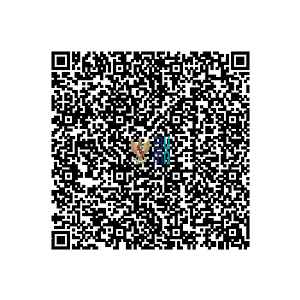
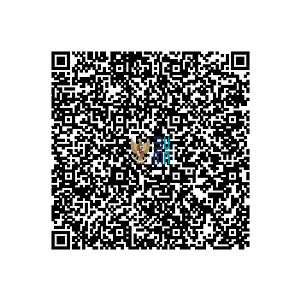
update qr code

Changed region(s): [[0.15, 0.15, 0.84, 0.84]]

diff --git a/app/Http/Controllers/RencanaKerja/TbleController.php b/app/Http/Controllers/RencanaKerja/TbleController.php
@@ -20,6 +20,8 @@ use SimpleSoftwareIO\QrCode\Facades\QrCode;
 use Intervention\Image\Facades\Image;
 use Illuminate\Support\Facades\Storage;
 use Illuminate\Support\Facades\Crypt;
+use Milon\Barcode\DNS1D;
+use Milon\Barcode\DNS2D;
 
 class TbleController extends Controller
 {
@@ -377,50 +379,120 @@ class TbleController extends Controller
         $encryptedId = Crypt::encryptString($id);
         $encryptedTanggalCetak = Crypt::encryptString($tanggal_cetak);
         $redirectRoute = route('verifikasi.index', ['id' => $encryptedId, 'tahun' => $tahun, 'tanggal_cetak' => $encryptedTanggalCetak]);
-        $qrCode = QrCode::format('png')
-        ->size(300)
-        ->margin(20)
-        ->generate($redirectRoute);
+        
+        // $qrCode = QrCode::format('png')
+        // ->size(300)
+        // ->margin(20)
+        // ->generate($redirectRoute);
 
-        Storage::disk('local')->put('qr_code.png', $qrCode);
+        // Storage::disk('local')->put('qr_code.png', $qrCode);
 
-        // Load your custom image
-        $customImage = Image::make('logo_only.png');
+        // // Load your custom image
+        // $customImage = Image::make('logo_only.png');
 
-        // Calculate the new size for the custom image (e.g., 100x100 pixels)
-        $newCustomWidth = 50;
-        $newCustomHeight = 50;
+        // // Calculate the new size for the custom image (e.g., 100x100 pixels)
+        // $newCustomWidth = 50;
+        // $newCustomHeight = 50;
 
-        // Resize the custom image
-        $customImage->resize($newCustomWidth, $newCustomHeight);
+        // // Resize the custom image
+        // $customImage->resize($newCustomWidth, $newCustomHeight);
 
-        // Calculate the position to overlay the custom image in the center of the QR code
-        $qrCodeImage = Image::make(Storage::disk('local')->path('qr_code.png'));
-        $qrCodeWidth = $qrCodeImage->getWidth();
-        $qrCodeHeight = $qrCodeImage->getHeight();
-        $customWidth = $customImage->width();
-        $customHeight = $customImage->height();
-        $overlayX = ($qrCodeWidth - $customWidth) / 2;
-        $overlayY = ($qrCodeHeight - $customHeight) / 2;
+        // // Calculate the position to overlay the custom image in the center of the QR code
+        // $qrCodeImage = Image::make(Storage::disk('local')->path('qr_code.png'));
+        // $qrCodeWidth = $qrCodeImage->getWidth();
+        // $qrCodeHeight = $qrCodeImage->getHeight();
+        // $customWidth = $customImage->width();
+        // $customHeight = $customImage->height();
+        // $overlayX = ($qrCodeWidth - $customWidth) / 2;
+        // $overlayY = ($qrCodeHeight - $customHeight) / 2;
 
-        // Overlay the custom image onto the QR code
-        $qrCodeImage->insert($customImage, 'top-left', $overlayX, $overlayY);
+        // // Overlay the custom image onto the QR code
+        // $qrCodeImage->insert($customImage, 'top-left', $overlayX, $overlayY);
 
-        // Save or display the merged image
-        $qrCodeImage->save('merged_qr_code.png');
-        $qrCodeImagePath = asset('merged_qr_code.png');
+        // // Save or display the merged image
+        // $qrCodeImage->save('merged_qr_code.png');
+        // $qrCodeImagePath = asset('merged_qr_code.png');
 
-        // Optionally, you can delete the temporary QR code image
-        Storage::disk('local')->delete('qr_code.png');
-        //put the qrcode in rencana_kerja.tble.detailtemplate
+        // // Optionally, you can delete the temporary QR code image
+        // Storage::disk('local')->delete('qr_code.png');
+        // //put the qrcode in rencana_kerja.tble.detailtemplate
+
+        
+        // Generate the QR code
+        // $data = route('verifikasi.index', ['id' => $encryptedId, 'tahun' => $tahun, 'tanggal_cetak' => $encryptedTanggalCetak]);
+        // $type = 'QRCODE';
+        // $qrCodePath = 'qr_code.png';
+        // $barcode = new DNS2D();
+        // $barcode->setStorPath(storage_path('app'));
+        // $width = 200; // Image width
+        // $height = 200; // Image height
+
+        // // Generate the QR code image and save it
+        // $barcode->getBarcodePNG($data, $type, $width, $height, $qrCodePath);
+        
+        // // Load your custom image
+        // $customImage = Image::make('logo_only.png');
+
+        // // Calculate the position to overlay the custom image in the center of the QR code
+        // $qrCodeImage = Image::make(storage_path('app/' . $qrCodePath));
+        // $qrCodeWidth = $qrCodeImage->getWidth();
+        // $qrCodeHeight = $qrCodeImage->getHeight();
+        // $customWidth = $customImage->width();
+        // $customHeight = $customImage->height();
+        // $overlayX = ($qrCodeWidth - $customWidth) / 2;
+        // $overlayY = ($qrCodeHeight - $customHeight) / 2;
+
+        // // Overlay the custom image onto the QR code
+        // $qrCodeImage->insert($customImage, 'top-left', $overlayX, $overlayY);
+
+        // // Save or display the merged image
+        // $mergedQrCodePath = 'merged_qr_code.png';
+        // $qrCodeImage->save(storage_path('app/' . $mergedQrCodePath));
+        // $qrCodeImagePath = asset('storage/' . $mergedQrCodePath);
+
+        // // Optionally, you can delete the temporary QR code image
+        // unlink(storage_path('app/' . $qrCodePath));
+        $barcode = new DNS2D();
+        
+        // Generate the QR code
+        $qrCodeImage = $barcode->getBarcodePNG($redirectRoute, 'QRCODE,H', 1, 1);
+
+        // Create an image object from the QR code
+        $img = Image::make($qrCodeImage);
+
+        // Load the logo image
+        $logo = Image::make('logo_only.png');
+
+        // Resize the logo image to 30% of its original size
+        $logo->resize($logo->width() * 0.03, $logo->height() * 0.03);
+
+        // Insert the logo into the center of the QR code image
+        $img->insert($logo, 'center');
+
+        // Encode the image as a data URL
+        $dataUrl = $img->encode('data-url')->encoded;
+        
 
         $pdf = PDF::loadView('rencana_kerja.tble.detailtemplate', 
         ['data' => $data,
          'perusahaan' => $perusahaan, 
          'tanggal_cetak' => $tanggal_cetak,
          'user' => $user,
-         'qrCodeImage' => $qrCodeImagePath])->setPaper('a4', 'portrait');
+         'qrCodeImage' =>  $dataUrl])->setPaper('a4', 'portrait');
         return  $pdf->download($perusahaan->nama_lengkap.'-rka-'.$tahun.'.pdf');
+    }
+
+    public function generateQRCode($content)
+    {
+        if ($content) {
+            $id = $this->encryption->encode($content->id);
+            $baseUrl = env('APP_URL');
+
+            $img = Image::make(DNS2D::getBarcodePNG($baseUrl . $id . '/verifikasi', 'QRCODE,H', 3, 3));
+            $logo = Image::make(asset('/assets/img/logo-lite.png'));
+
+            return $img->insert($logo, 'center')->encode('data-url')->encoded;
+        }
     }
 
     public function verifikasiIndex($encryptedId, $tahun, Request $request){

diff --git a/app/Http/Controllers/LaporanRealisasi/TbleRealisasiController.php b/app/Http/Controllers/LaporanRealisasi/TbleRealisasiController.php
@@ -20,6 +20,8 @@ use SimpleSoftwareIO\QrCode\Facades\QrCode;
 use Intervention\Image\Facades\Image;
 use Illuminate\Support\Facades\Storage;
 use Illuminate\Support\Facades\Crypt;
+use Milon\Barcode\DNS1D;
+use Milon\Barcode\DNS2D;
 
 class TbleRealisasiController extends Controller
 {
@@ -502,41 +504,60 @@ class TbleRealisasiController extends Controller
         $encryptedId = Crypt::encryptString($id);
         $encryptedTanggalCetak = Crypt::encryptString($tanggal_cetak);
         $redirectRoute = route('verifikasi.index', ['id' => $encryptedId, 'tahun' => $tahun, 'tanggal_cetak' => $encryptedTanggalCetak, 'periode' => $periode_laporan->nama]);
-        $qrCode = QrCode::format('png')
-        ->size(300)
-        ->margin(20)
-        ->generate($redirectRoute);
+        // $qrCode = QrCode::format('png')
+        // ->size(300)
+        // ->margin(20)
+        // ->generate($redirectRoute);
 
-        Storage::disk('local')->put('qr_code.png', $qrCode);
+        // Storage::disk('local')->put('qr_code.png', $qrCode);
 
-        // Load your custom image
-        $customImage = Image::make('logo_only.png');
+        // // Load your custom image
+        // $customImage = Image::make('logo_only.png');
 
-        // Calculate the new size for the custom image (e.g., 100x100 pixels)
-        $newCustomWidth = 50;
-        $newCustomHeight = 50;
+        // // Calculate the new size for the custom image (e.g., 100x100 pixels)
+        // $newCustomWidth = 50;
+        // $newCustomHeight = 50;
 
-        // Resize the custom image
-        $customImage->resize($newCustomWidth, $newCustomHeight);
+        // // Resize the custom image
+        // $customImage->resize($newCustomWidth, $newCustomHeight);
 
-        // Calculate the position to overlay the custom image in the center of the QR code
-        $qrCodeImage = Image::make(Storage::disk('local')->path('qr_code.png'));
-        $qrCodeWidth = $qrCodeImage->getWidth();
-        $qrCodeHeight = $qrCodeImage->getHeight();
-        $customWidth = $customImage->width();
-        $customHeight = $customImage->height();
-        $overlayX = ($qrCodeWidth - $customWidth) / 2;
-        $overlayY = ($qrCodeHeight - $customHeight) / 2;
+        // // Calculate the position to overlay the custom image in the center of the QR code
+        // $qrCodeImage = Image::make(Storage::disk('local')->path('qr_code.png'));
+        // $qrCodeWidth = $qrCodeImage->getWidth();
+        // $qrCodeHeight = $qrCodeImage->getHeight();
+        // $customWidth = $customImage->width();
+        // $customHeight = $customImage->height();
+        // $overlayX = ($qrCodeWidth - $customWidth) / 2;
+        // $overlayY = ($qrCodeHeight - $customHeight) / 2;
 
-        // Overlay the custom image onto the QR code
-        $qrCodeImage->insert($customImage, 'top-left', $overlayX, $overlayY);
+        // // Overlay the custom image onto the QR code
+        // $qrCodeImage->insert($customImage, 'top-left', $overlayX, $overlayY);
 
-        // Save or display the merged image
-        $qrCodeImage->save('merged_qr_code.png');
-        $qrCodeImagePath = asset('merged_qr_code.png');
+        // // Save or display the merged image
+        // $qrCodeImage->save('merged_qr_code.png');
+        // $qrCodeImagePath = asset('merged_qr_code.png');
 
-        // Optionally, you can delete the temporary QR code image
-        Storage::disk('local')->delete('qr_code.png');
+        // // Optionally, you can delete the temporary QR code image
+        // Storage::disk('local')->delete('qr_code.png');
+        $barcode = new DNS2D();
+        
+        // Generate the QR code
+        $qrCodeImage = $barcode->getBarcodePNG($redirectRoute, 'QRCODE,H', 1, 1);
+
+        // Create an image object from the QR code
+        $img = Image::make($qrCodeImage);
+
+        // Load the logo image
+        $logo = Image::make('logo_only.png');
+
+        // Resize the logo image to 30% of its original size
+        $logo->resize($logo->width() * 0.03, $logo->height() * 0.03);
+
+        // Insert the logo into the center of the QR code image
+        $img->insert($logo, 'center');
+
+        // Encode the image as a data URL
+        $dataUrl = $img->encode('data-url')->encoded;
         
 
         $pdf = PDF::loadView('laporan_realisasi.tble.detailtemplate', 
@@ -544,7 +565,7 @@ class TbleRealisasiController extends Controller
          'perusahaan' => $perusahaan, 
          'tanggal_cetak' => $tanggal_cetak,
          'user' => $user,
-         'qrCodeImage' => $qrCodeImagePath])->setPaper('a4', 'portrait');
+         'qrCodeImage' => $dataUrl])->setPaper('a4', 'portrait');
         return  $pdf->download($perusahaan->nama_lengkap.'-'.$periode_laporan->nama.'-'.$tahun.'.pdf');
     }
 }

diff --git a/app/Http/Controllers/PUMK/MitraBinaanController.php b/app/Http/Controllers/PUMK/MitraBinaanController.php
@@ -97,6 +97,7 @@ class MitraBinaanController extends Controller
 
     public function datatable(Request $request)
     {
+        // dd($request);
         //fungsi handle limit memory
         if((int)preg_replace('/[^0-9]/','',ini_get('memory_limit')) < 512){
             ini_set('memory_limit','-1');
@@ -109,7 +110,7 @@ class MitraBinaanController extends Controller
                     ->leftjoin('sektor_usaha','sektor_usaha.id','=','pumk_mitra_binaans.sektor_usaha_id')
                     ->leftjoin('kolekbilitas_pendanaan','kolekbilitas_pendanaan.id','=','pumk_mitra_binaans.kolektibilitas_id')
                     ->where('pumk_mitra_binaans.is_arsip',false);
-
+            
             if($request->perusahaan_id){
                 $data = $data->where('pumk_mitra_binaans.perusahaan_id',$request->perusahaan_id);
             }
@@ -167,6 +168,8 @@ class MitraBinaanController extends Controller
 
             if($request->tahuns){
                 $data = $data->where('pumk_mitra_binaans.tahun',(int)$request->tahuns);
+                // dd('halo');
+                // dd($data->get()[0]);
             }else{
                 $static_tahun = (int)date('Y');
                 $data = $data->where('pumk_mitra_binaans.tahun',$static_tahun);

diff --git a/resources/views/pumk/data_mitra/index.blade.php b/resources/views/pumk/data_mitra/index.blade.php
@@ -160,7 +160,7 @@
                         </div>                        
                         <div class="col-lg-2">
                             <label>Semester</label>
-                            <select class="form-select form-select-solid form-select2" id="bulan_id" name="bulan_id" data-kt-select2="true" data-placeholder="Pilih Bulan" data-allow-clear="true">
+                            <select class="form-select form-select-solid form-select2" id="bulan_id" name="bulan_id" data-kt-select2="true" data-placeholder="Pilih Semester" data-allow-clear="true">
                                 <option></option>
                                 {{-- @foreach($bulan as $bu)  
                                     <option value="{{ $bu->id }}" >{{ $bu->nama }}</option>

diff --git a/config/app.php b/config/app.php
@@ -183,6 +183,7 @@ return [
         //Untuk Image
         SimpleSoftwareIO\QrCode\QrCodeServiceProvider::class,
         Intervention\Image\ImageServiceProvider::class,
+        Milon\Barcode\BarcodeServiceProvider::class,
     ],
 
     /*
@@ -239,6 +240,8 @@ return [
         'PDF' => Barryvdh\DomPDF\Facade::class,
         'Image' => Intervention\Image\Facades\Image::class,
         'QrCode' => SimpleSoftwareIO\QrCode\Facades\QrCode::class,
+        'DNS1D' => Milon\Barcode\Facades\DNS1DFacade::class,
+        'DNS2D' => Milon\Barcode\Facades\DNS2DFacade::class,
 
     ],
 
